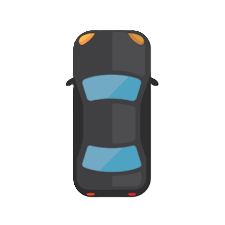
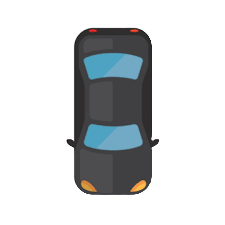
Edit the car images

Changed region(s): [[0.28, 0.1244, 0.7156, 0.9022]]

diff --git a/CarGame/MiniGame.py b/CarGame/MiniGame.py
@@ -17,7 +17,7 @@ level = 1
 screen = pygame.display.set_mode((width, height)) # Set the size of the screen
 
 # Load the cars
-car = pygame.image.load("CarGame/car1.1.png") # https://helloartsy.com/how-to-draw-a-car-from-the-top/
+car = pygame.image.load("CarGame/car1.png") # https://helloartsy.com/how-to-draw-a-car-from-the-top/
 car_loc = car.get_rect()
 car_loc.center = left_lane, height*0.8
 
